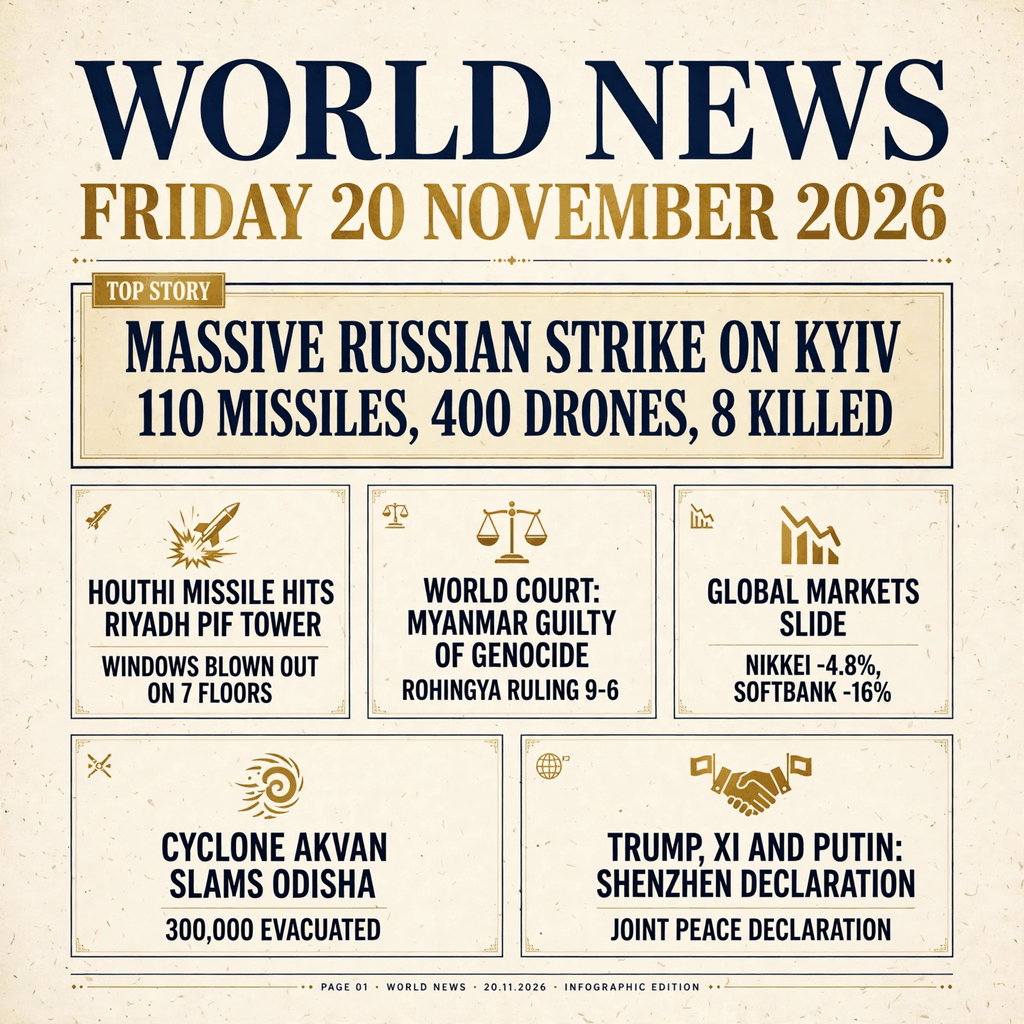
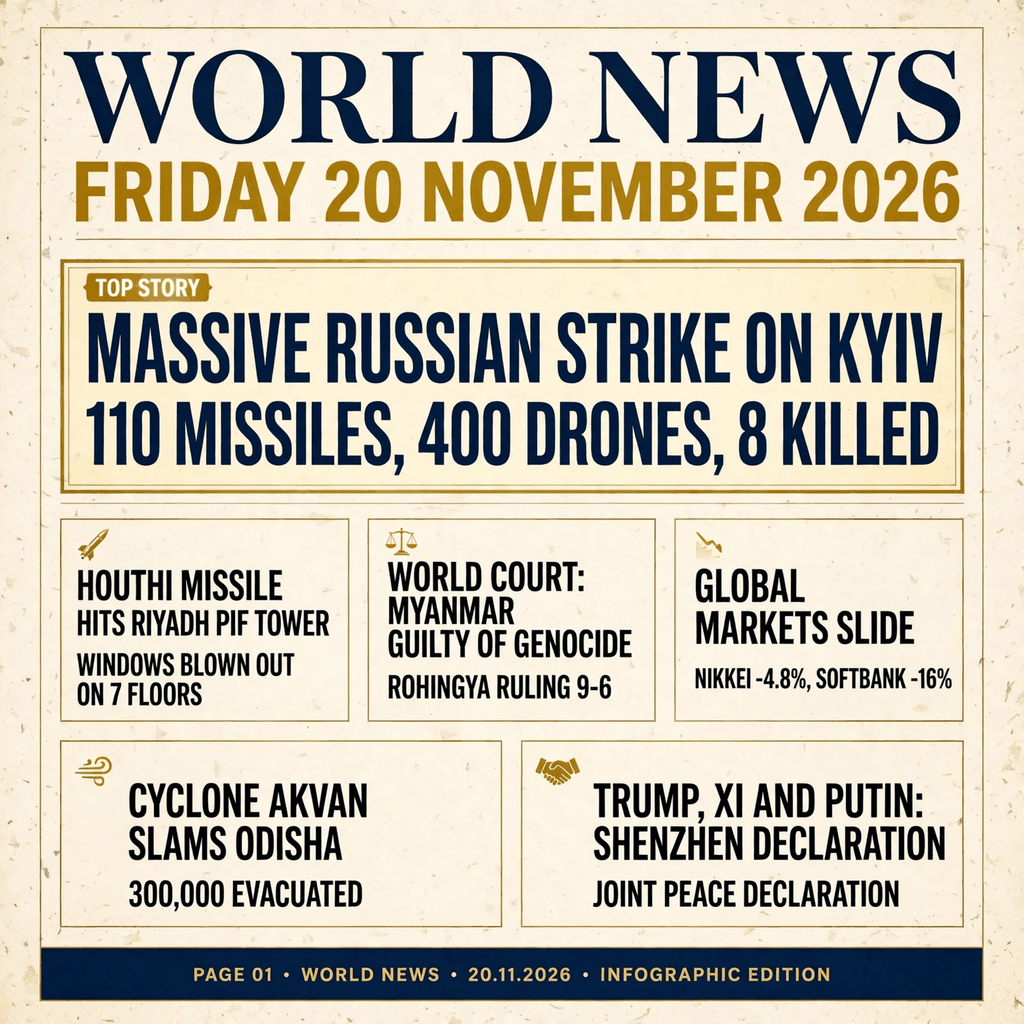
news-image-20261120: v3 final (page frame, big hero, footer) — entry 540,862 bytes

diff --git a/main.py b/main.py
@@ -1,25 +1,26 @@
 #!/usr/bin/env python3
-"""Write the 20 November 2026 world-news summary image to /output/entry.png.
+"""Emit the 20 November 2026 front page to /output/entry.png.
 
-Reads entry.png from this repository and copies it byte-for-byte to
-/output/entry.png. No network, no randomness, no timestamps: two runs
-produce byte-identical output.
+The picture lives in this repository as entry.png. This script moves
+those exact bytes to the output path the grader reads. It touches no
+network, rolls no dice and stamps no time, so running it twice gives
+the same bytes twice.
 """
-import os
+from pathlib import Path
 
-HERE = os.path.dirname(os.path.abspath(__file__))
-SRC = os.path.join(HERE, "entry.png")
-DST = "/output/entry.png"
+SOURCE = Path(__file__).resolve().parent / "entry.png"
+TARGET = Path("/output/entry.png")
 
 
-def main():
-    os.makedirs(os.path.dirname(DST), exist_ok=True)
-    with open(SRC, "rb") as f:
-        data = f.read()
-    with open(DST, "wb") as f:
-        f.write(data)
-    print("wrote %s (%d bytes)" % (DST, len(data)))
+def run() -> int:
+    # Byte-for-byte copy: the grader runs this twice and both runs must
+    # agree, so there is deliberately nothing here that can vary.
+    payload = SOURCE.read_bytes()
+    TARGET.parent.mkdir(parents=True, exist_ok=True)
+    TARGET.write_bytes(payload)
+    print(f"wrote {TARGET} ({len(payload)} bytes)")
+    return 0
 
 
 if __name__ == "__main__":
-    main()
+    raise SystemExit(run())

diff --git a/README.md b/README.md
@@ -1,35 +1,37 @@
-# World News — 20 November 2026 (one image)
+# World news in one image — Friday 20 November 2026
 
 [![make.fun · news-image-20261120](https://make.fun/badge/news-image-20261120.svg)](https://make.fun/bounty/news-image-20261120?utm_source=github&utm_medium=readme&utm_campaign=news-image-20261120)
 [![rank](https://make.fun/badge/news-image-20261120/Aethervanguard/news-image-20261120/rank.svg)](https://make.fun/bounty/news-image-20261120/leaderboard?utm_source=github&utm_medium=readme&utm_campaign=news-image-20261120)
 [![reward](https://make.fun/badge/news-image-20261120/Aethervanguard/news-image-20261120/reward.svg)](https://make.fun/bounty/news-image-20261120?utm_source=github&utm_medium=readme&utm_campaign=news-image-20261120)
 
-Entry for the [make.fun bounty "Sum up 20 November's world news in one image"](https://make.fun/bounty/news-image-20261120)
+This repository holds an entry for the
+[make.fun bounty "Sum up 20 November's world news in one image"](https://make.fun/bounty/news-image-20261120)
 (`news-image-20261120`).
 
-## The image
+## What the picture shows
 
-`entry.png` is a 1024x1024 PNG (572,265 bytes) infographic summing up
-Friday 20 November 2026 in six panels:
+`entry.png` (1024 by 1024 pixels, 540,862 bytes) is a newspaper
+front page for Friday 20 November 2026, with six stories:
 
-1. **Massive Russian strike on Kyiv** — 110 missiles, 400 drones, 8 killed;
-   three bridges across the Dnipro hit (TOP STORY).
-2. **Houthi missile hits Riyadh PIF Tower** — windows blown out on 7 floors
-   of the Saudi sovereign wealth fund HQ, no injuries.
-3. **World Court: Myanmar guilty of genocide** — the ICJ rules 9–6 that
-   Myanmar committed genocide against the Rohingya.
-4. **Global markets slide** — Nikkei −4.8%, SoftBank −16% as the AI
-   sell-off spreads across Asia.
-5. **Cyclone Akvan slams Odisha** — landfall near Gopalpur, 300,000 evacuated.
-6. **Trump, Xi and Putin: Shenzhen declaration** — joint peace declaration
-   from the first trilateral summit.
+1. **Massive Russian strike on Kyiv** — 110 missiles and 400 drones,
+   8 people killed, three bridges across the Dnipro hit (TOP STORY).
+2. **Houthi missile hits the Riyadh PIF Tower** — windows blown out
+   across 7 floors of the Saudi sovereign wealth fund HQ, no injuries.
+3. **World Court: Myanmar guilty of genocide** — the ICJ rules 9–6
+   that Myanmar committed genocide against the Rohingya.
+4. **Global markets slide** — Nikkei down 4.8% and SoftBank down 16%
+   as the AI sell-off spreads across Asia.
+5. **Cyclone Akvan slams Odisha** — landfall near Gopalpur after
+   300,000 people were evacuated.
+6. **Trump, Xi and Putin: Shenzhen declaration** — a joint peace
+   declaration from the first trilateral summit.
 
-## Run
+## How to run it
 
 ```sh
 python3 main.py
 ```
 
-Writes the image to `/output/entry.png`. The program only copies bytes
-from `entry.png` in this repository: no network, no randomness, so repeated
-runs produce byte-identical output.
+The program writes the picture to `/output/entry.png`. It only moves
+bytes out of `entry.png` in this repository — no network, no random
+numbers — so every run writes the same bytes.
